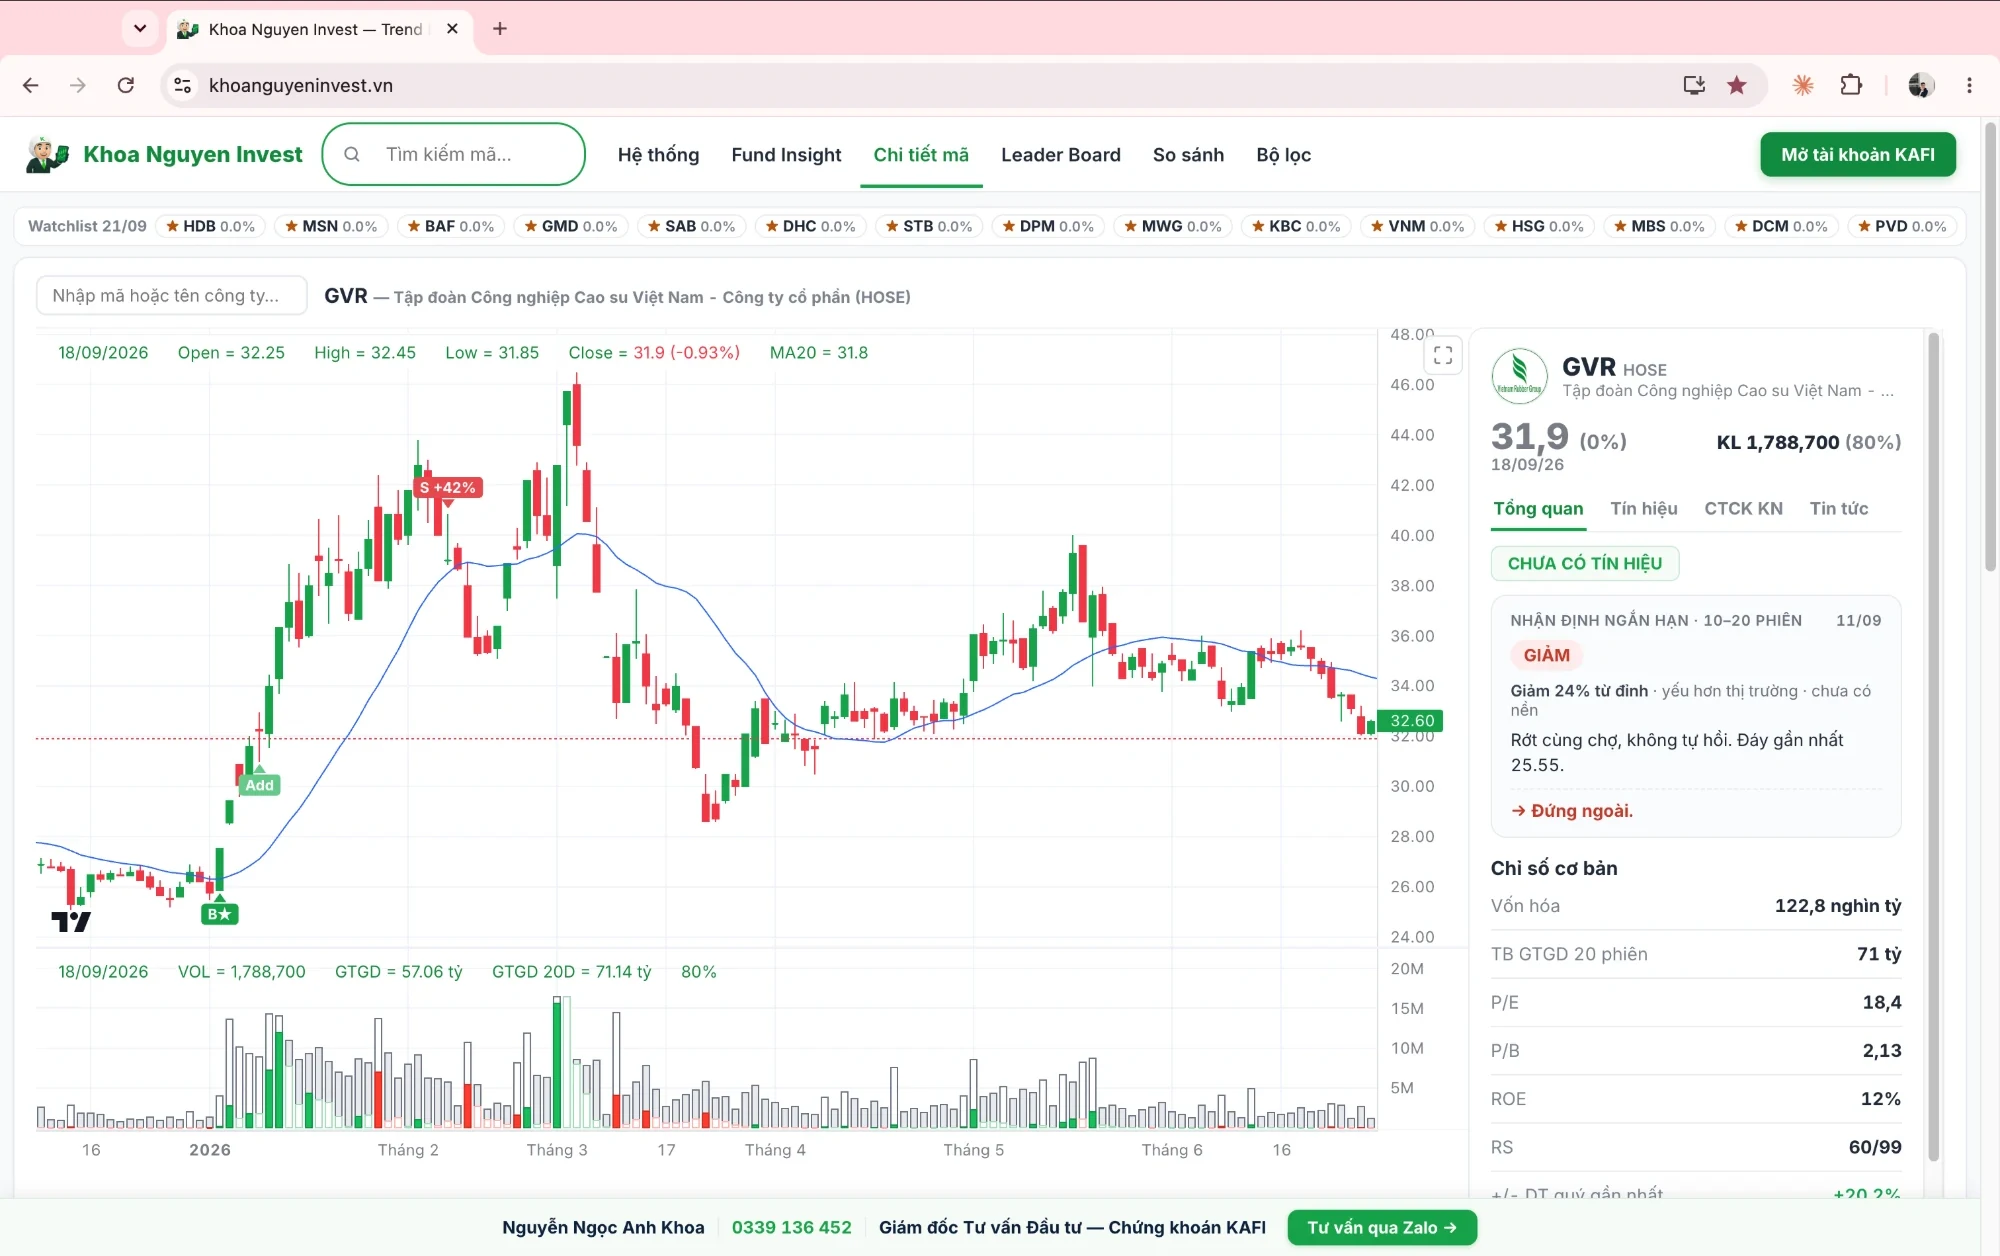
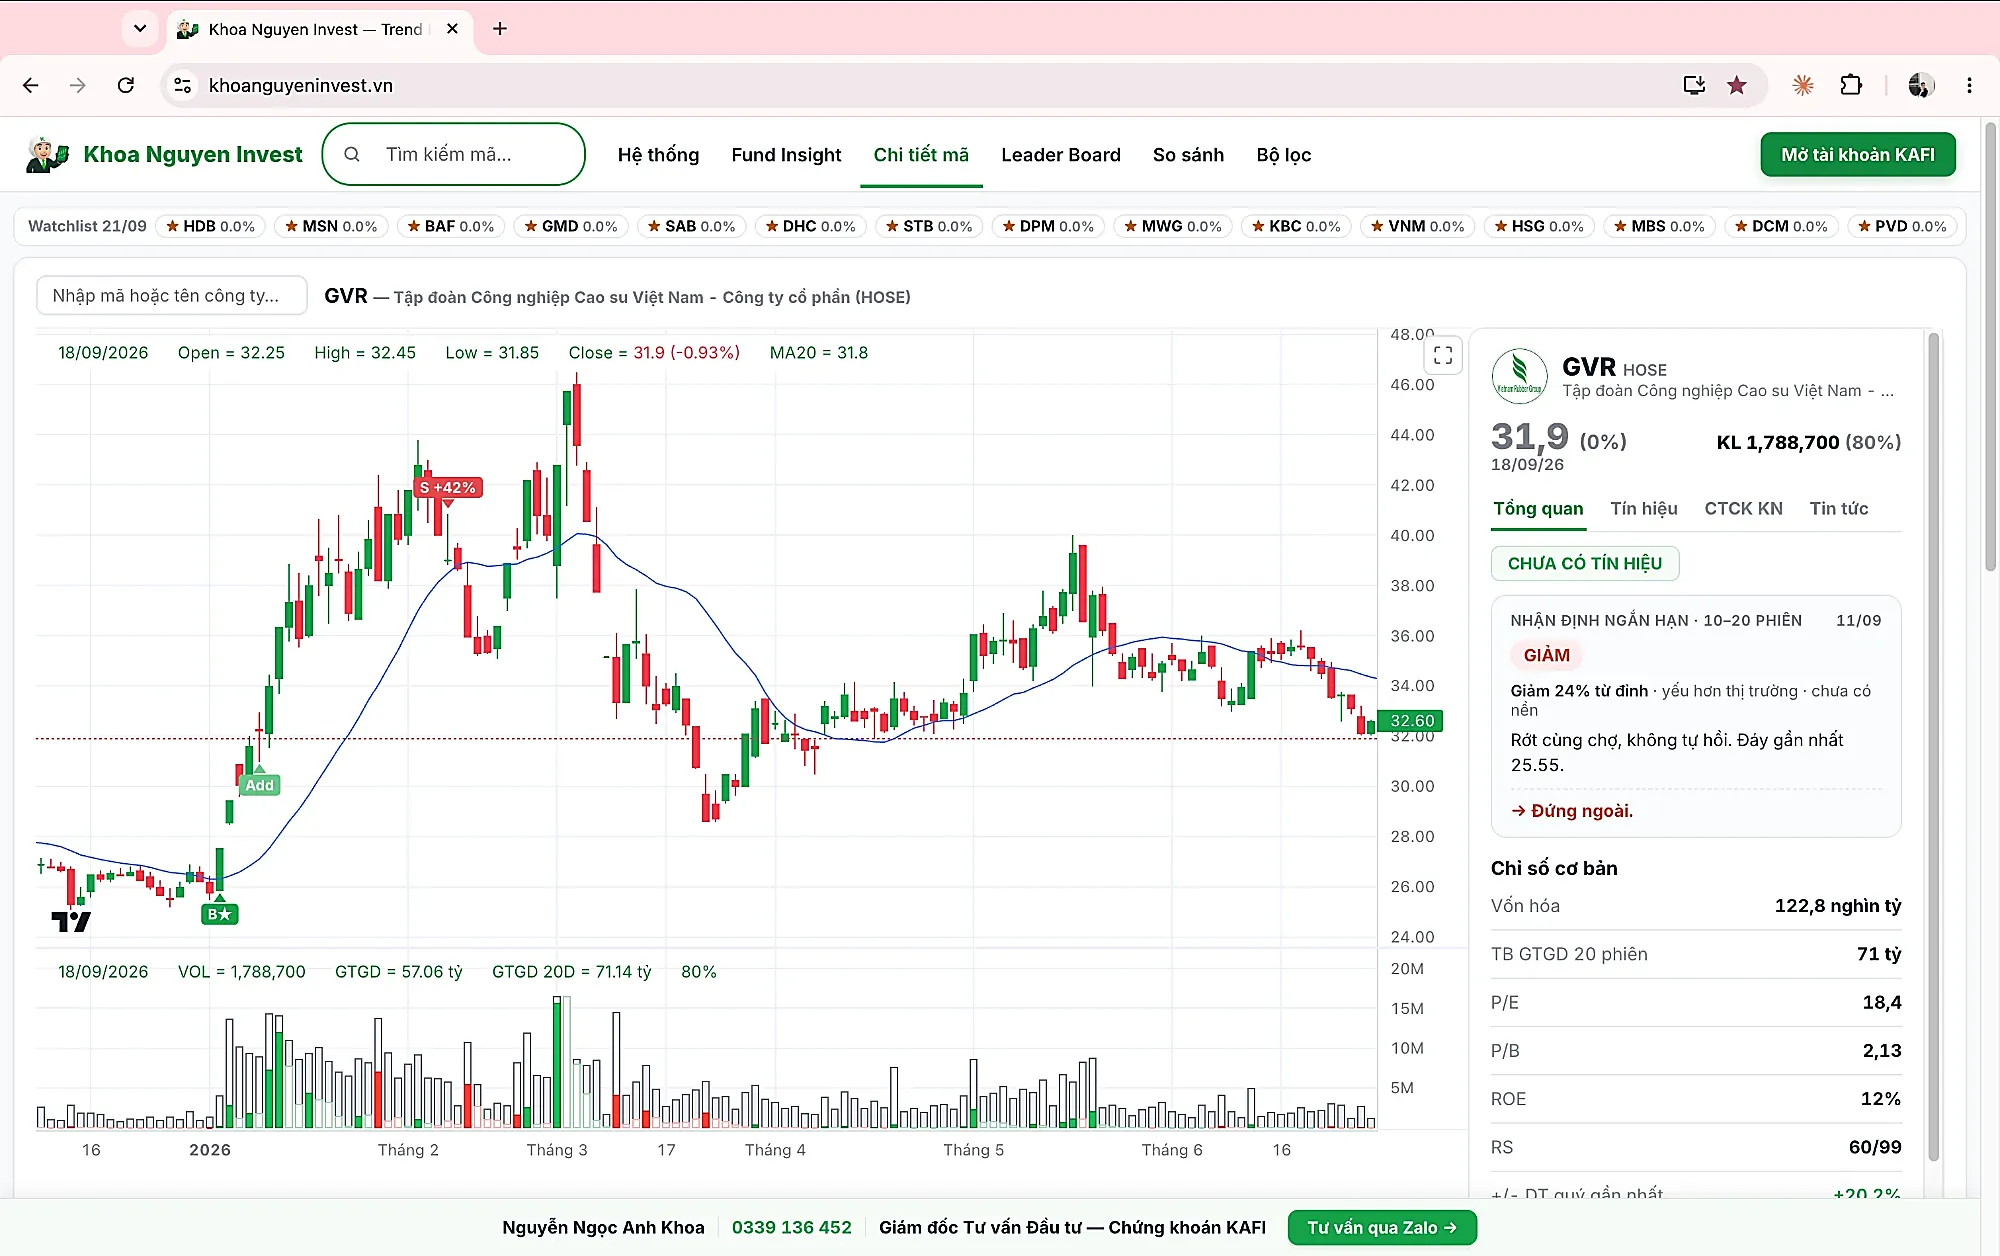
Mockup: lam net anh MacBook de bu phan bi thu nho 3 lan
Anh Khoa bao anh nhin bi be. Do lai thi khong phai do nen: so ban em tao
voi ban goc duoc PSNR 43 dB, gan nhu khong mat gi.

Nguyen nhan that: anh hien thi 656 CSS px trong khi file rong 2000px,
tuc bi thu nho 3.05 lan. Ban than anh anh gui cung da bi ha tu ~3024px
cua man Retina xuong 2000px roi. Thu nho hai lan nen chu nho nat ra.
Do net do bang phuong sai Laplacian sau khi thu nho ve 1312px (dung kich
thuoc hien thi tren man Retina): 1751 - trong khi anh mockup cu la 1845.

Sua: lam net (unsharp mask r=1.2 p=140 t=2) trong luc dong goi anh, de bu
lai phan mat khi trinh duyet thu nho. Do net sau thu nho len 4021.
Da soi tan mat o dung kich thuoc hien thi: chu doc ro, khong bi vien sang.

Dung luong: thu quality 80/84/88/92 thi do net gan nhu nhau (4021 -> 4038)
nen lay quality 80, 131 KB thay vi 192 KB. Anh nay tai o dau trang nen
can can nang.

Doi URL anh thanh ?v=3 vi noi dung file doi (service worker cache theo URL).

Gioi han con lai nam o file goc: muon net han nua thi can anh chup goc
do phan giai day cua man Retina (~3024px), chua qua nen lai.

Claude-Session: https://claude.ai/code/session_01PEcqb6augzXGJdhiWY2L95

diff --git a/dashboard_app.js b/dashboard_app.js
@@ -1317,7 +1317,7 @@ function knHeroHtml(){
         <div class="kh-mac">
           <div class="kh-lid"><span class="kh-cam"></span>
             <div class="kh-scr">
-              <img src="mock-web.webp?v=2" width="2000" height="1256" alt="GVR — tín hiệu B★, Add và điểm bán trên khoanguyeninvest.vn" decoding="async" fetchpriority="high">
+              <img src="mock-web.webp?v=3" width="2000" height="1256" alt="GVR — tín hiệu B★, Add và điểm bán trên khoanguyeninvest.vn" decoding="async" fetchpriority="high">
             </div>
           </div>
           <div class="kh-base"></div>

diff --git a/index.html b/index.html
@@ -306,7 +306,7 @@ body.knFit #view-compare>.card{margin-bottom:0}
 <script src="bstar_books.js?v=20260906a"></script>
 <script src="hanghoa_data.js?v=20260907a"></script>
 <script src="nhan_dinh.js?v=20260914a"></script>
-<script src="dashboard_app.js?v=20260921e"></script>
+<script src="dashboard_app.js?v=20260921f"></script>
 <script src="market_v2.js?v=20260907l"></script>
 <script src="laisuat.js?v=20260921a"></script>
 <script src="autorun.js?v=20260812a"></script>
